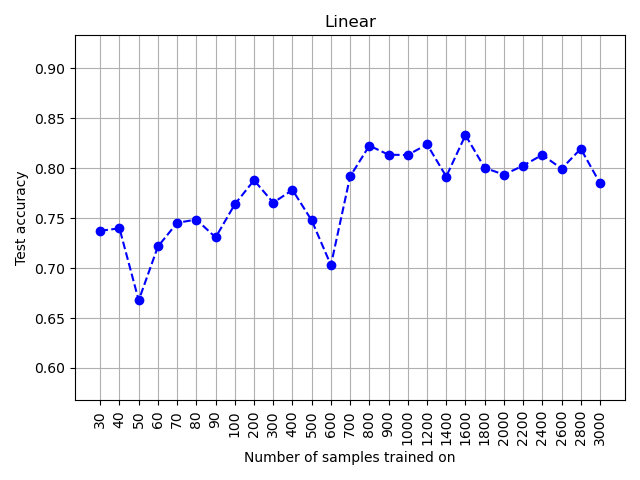
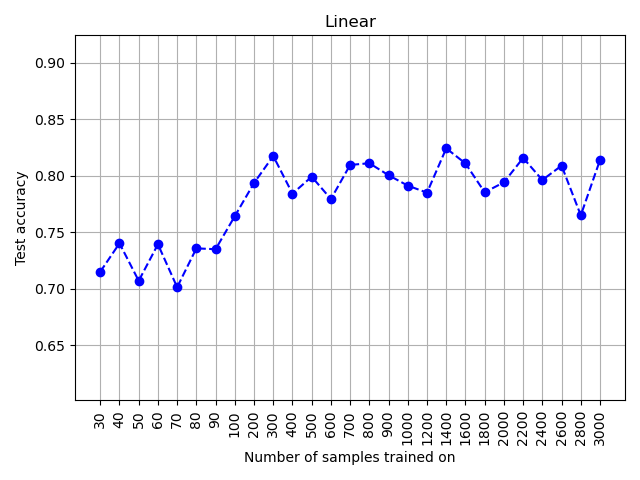
add acc plots for classfiers in readme

diff --git a/transfer_learning.py b/transfer_learning.py
@@ -39,7 +39,7 @@ if __name__ == "__main__":
     train_embeddings, test_embeddings = train_test_split(df, test_size=0.35, shuffle=True, random_state=0)
 
     svm_classifier = make_pipeline(StandardScaler(), SVC(gamma="auto"))
-    linear_classifier = make_pipeline(StandardScaler(), SGDClassifier(max_iter=1000, tol=1e-3))
+    linear_classifier = make_pipeline(StandardScaler(), SGDClassifier(loss="hinge"))
     k = 10
     knn_classifier = KNeighborsClassifier(n_neighbors=k)
 
